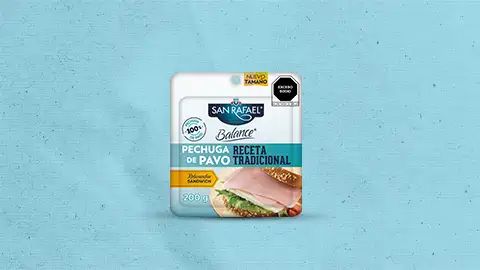
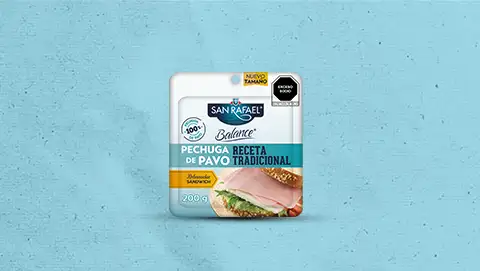
feat: change images

diff --git a/src/content/home/tabs/tabs.ts b/src/content/home/tabs/tabs.ts
@@ -4,7 +4,7 @@ export const tabsContent = [
     name: "Pechuga de Pavo Escalonada",
     description:
       "Aquí encontrarás recetas para todos. Recetas pensadas con nuestros productos, en tus tiempos y sobre todo, con el mejor sabor, el de San Rafael Balance ®",
-    image: "/assets/" + "images/pechuga-pavo-escalonada-receta.webp",
+    image: "/assets/" + "images/pechuga-pavo-escalonada-receta-v2.webp",
     nutritional_link: "/productos/pechuga-de-pavo-escalonada",
     recipes_link: "/recetas/pechuga-de-pavo-escalonada",
     types: [
@@ -104,7 +104,7 @@ export const tabsContent = [
     name: "Salchicha de Pechuga de Pavo",
     description:
       "Aquí encontrarás recetas para todos. Recetas pensadas con nuestros productos, en tus tiempos y sobre todo, con el mejor sabor, el de San Rafael Balance ®",
-    image: "/assets/" + "images/salchicha-pechuga-pavo-receta.webp",
+    image: "/assets/" + "images/salchicha-pechuga-pavo-receta-v2.webp",
     nutritional_link: "/productos/salchicha-de-pechuga-de-pavo",
     recipes_link: "/recetas/salchicha-de-pechuga-de-pavo",
     types: [
